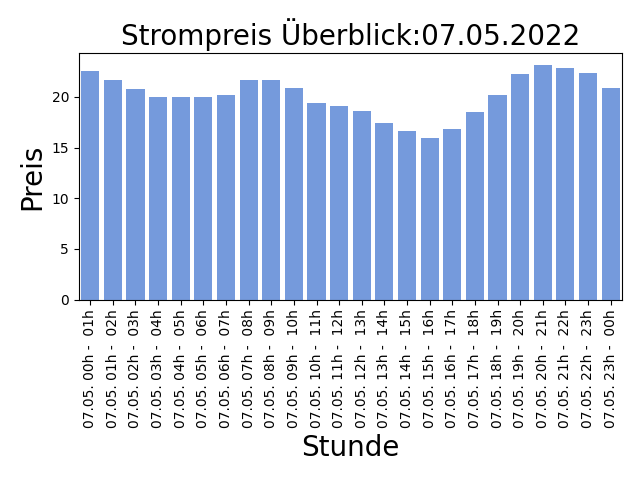
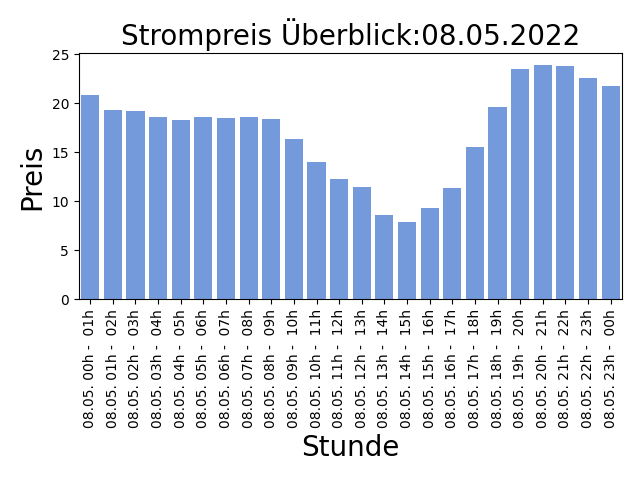
AUTOMATIC UPDATE PRICE LIST: 2022-05-07-14:30:05

diff --git a/README.md b/README.md
@@ -1,5 +1,5 @@
 
-## Strompreise für den 07.05.2022
+## Strompreise für den 08.05.2022
 
 Niedrige Preise deuten auf viel Sonnen und Windenergieerzeugung hin, ein hoher Anteil an erneuerbaren Energien bedeuted weniger CO2 Verbrauch!
 
@@ -7,31 +7,31 @@ Niedrige Preise deuten auf viel Sonnen und Windenergieerzeugung hin, ein hoher A
 
 | Stunde | Preis in Cent/kWh |
 |---|---|
-| 07.05. 00h -  01h | 22.512 | 
-| 07.05. 01h -  02h | 21.694 | 
-| 07.05. 02h -  03h | 20.736 | 
-| 07.05. 03h -  04h | 20.000999999999998 | 
-| 07.05. 04h -  05h | 19.95 | 
-| 07.05. 05h -  06h | 20.009999999999998 | 
-| 07.05. 06h -  07h | 20.178 | 
-| 07.05. 07h -  08h | 21.628 | 
-| 07.05. 08h -  09h | 21.704 | 
-| 07.05. 09h -  10h | 20.857 | 
-| 07.05. 10h -  11h | 19.416999999999998 | 
-| 07.05. 11h -  12h | 19.067 | 
-| 07.05. 12h -  13h | 18.655 | 
-| 07.05. 13h -  14h | 17.437 | 
-| 07.05. 14h -  15h | 16.669999999999998 | 
-| **07.05. 15h -  16h** | **15.916999999999998** | 
-| 07.05. 16h -  17h | 16.822 | 
-| 07.05. 17h -  18h | 18.53 | 
-| 07.05. 18h -  19h | 20.162 | 
-| 07.05. 19h -  20h | 22.274 | 
-| 07.05. 20h -  21h | 23.157 | 
-| 07.05. 21h -  22h | 22.9 | 
-| 07.05. 22h -  23h | 22.312 | 
-| 07.05. 23h -  00h | 20.838 | 
+| 08.05. 00h -  01h | 20.81 | 
+| 08.05. 01h -  02h | 19.330000000000002 | 
+| 08.05. 02h -  03h | 19.192 | 
+| 08.05. 03h -  04h | 18.601 | 
+| 08.05. 04h -  05h | 18.298 | 
+| 08.05. 05h -  06h | 18.606 | 
+| 08.05. 06h -  07h | 18.497 | 
+| 08.05. 07h -  08h | 18.593 | 
+| 08.05. 08h -  09h | 18.362000000000002 | 
+| 08.05. 09h -  10h | 16.345 | 
+| 08.05. 10h -  11h | 14.033000000000001 | 
+| 08.05. 11h -  12h | 12.317 | 
+| 08.05. 12h -  13h | 11.465 | 
+| 08.05. 13h -  14h | 8.618 | 
+| **08.05. 14h -  15h** | **7.85** | 
+| 08.05. 15h -  16h | 9.326 | 
+| 08.05. 16h -  17h | 11.36 | 
+| 08.05. 17h -  18h | 15.580000000000002 | 
+| 08.05. 18h -  19h | 19.604 | 
+| 08.05. 19h -  20h | 23.46 | 
+| 08.05. 20h -  21h | 23.899 | 
+| 08.05. 21h -  22h | 23.835 | 
+| 08.05. 22h -  23h | 22.591 | 
+| 08.05. 23h -  00h | 21.79 | 
 
 Preise der EPEX Spot ® Strombörse (neue Preise werden täglich um 14:00 veröffentlicht für den kompletten nächsten Tag).
 
-letzte Aktualisierung:06.05.2022 14:30
+letzte Aktualisierung:07.05.2022 14:30
